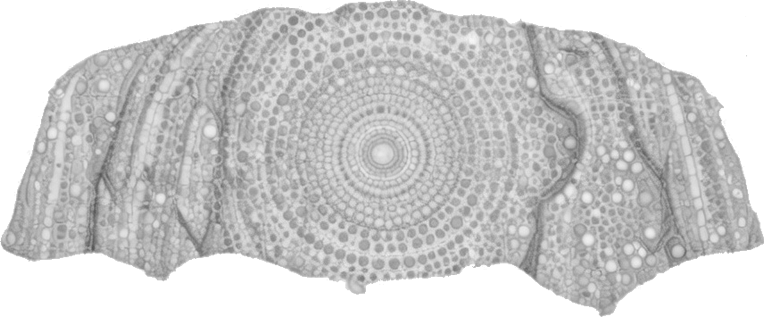
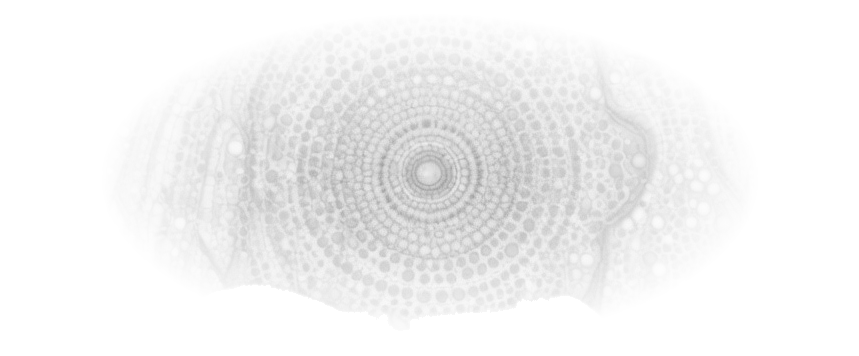
changes done

diff --git a/src/components/GlobalNetwork.jsx b/src/components/GlobalNetwork.jsx
@@ -5,33 +5,36 @@ import emultitech from '../assets/emultitech-logo.png';
 
 const GlobalNetwork = () => {
   return (
-    <section id="partners" className="relative bg-[#f9f9f9] py-24 overflow-hidden">
-      
-      {/* --- BACKGROUND IMAGE --- */}
-      {/* Centered absolutely, sitting behind the content */}
-      <div className="absolute top-1/2 left-1/2 transform -translate-x-1/2 -translate-y-1/2 w-full max-w-2xl z-0 pointer-events-none opacity-30">
-        <img src={globalBg} alt="Global Network" 
-          className="w-full max-w-2xl h-auto object-contain pb-10" 
-        />
-      </div>
+    <section id="partners" className="relative bg-[#f9f9f9] py-20 overflow-hidden">
+    
 
       <div className="max-w-7xl mx-auto px-6 md:px-12 relative z-10">
         <div className="flex flex-col lg:flex-row items-center gap-12 lg:gap-20">
           
           {/* --- LEFT SECTION: Title --- */}
-          <div className="lg:w-4/12 text-left">
+          <div className="lg:w-1/3 flex flex-col items-start relative">
+             <div className="absolute z-0 pointer-events-none
+                top-1/2 left-1/2 -translate-x-1/2 -translate-y-1/2 w-64
+                lg:top-[-2.5rem] lg:left-[-2.5rem] lg:translate-x-0 lg:translate-y-0 lg:w-[120%]
+              ">
+        <img src={globalBg} alt="Global Network" 
+          className="w-64 md:w-80 lg:w-full max-w-sm object-contain opacity-60" 
+        />
+      </div>
+        <div className="mb-8 z-10 text-center lg:text-left w-full">
             <h2 className="text-4xl md:text-4xl font-serif text-[#d4af37] mb-2 leading-none">Our</h2>
                 <h2 className="text-4xl md:text-4xl font-serif text-black-700 tracking-tight">Global Network</h2>
                 <div className="w-20 h-1.5 bg-[#d4af37] mt-6 rounded-full opacity-80 mx-auto lg:mx-0"></div>
+                </div>
           </div>
 
           {/* --- RIGHT SECTION: Description & Logos --- */}
-          <div className="lg:w-8/12 ">
+          <div className="lg:w-8/12 bg-[#f9f9f9] rounded-[2rem] p-8 md:p-16 shadow-sm border border-[#e2e2e2] ">
             
             {/* Description Text */}
-            <p className="text-black-600 text-lg mb-10 leading-relaxed max-w-2xl">
+            <p className="text-black-600 font-bold text-center mb-10 text-lg leading-relaxed max-w-2xl">
               Melbote leverages the strength and innovation of our pan-APAC technology leaders to deliver unparalleled solutions.
-            </p>
+            </p> 
 
             {/* Logos Row */}
             <div className="flex flex-col sm:flex-row items-center justify-start gap-8 sm:gap-12">
@@ -51,7 +54,7 @@ const GlobalNetwork = () => {
               </a>
 
               {/* Vertical Divider (Visible on Desktop) */}
-              <div className="hidden sm:block w-px h-12 bg-black-300"></div>
+              <div className="hidden sm:block w-[1px] h-12 bg-black-900"></div>
 
               {/* Logo 2: MultiTech */}
               <a 

diff --git a/src/components/About.jsx b/src/components/About.jsx
@@ -12,6 +12,17 @@ const About = () => {
             
             {/* --- LEFT COLUMN: Title & Image --- */}
             <div className="lg:w-1/3 flex flex-col items-start relative">
+
+             <div className="absolute z-0 pointer-events-none
+                top-1/2 left-1/2 -translate-x-1/2 -translate-y-1/2 w-64
+                lg:top-[-2.5rem] lg:left-[-2.5rem] lg:translate-x-0 lg:translate-y-0 lg:w-[120%]
+              ">
+                <img 
+                  src={aboutBg} 
+                  alt="Australian Kangaroo Art" 
+                  className="w-64 md:w-80 lg:w-full max-w-sm object-contain opacity-60" 
+                />
+              </div>
               {/* Title Section */}
               <div className="mb-8 z-10 text-center lg:text-left w-full">
                <h2 className="text-4xl md:text-4xl font-serif text-[#d4af37] mb-2 leading-none">About</h2>
@@ -19,21 +30,12 @@ const About = () => {
                 <div className="w-20 h-1.5 bg-[#d4af37] mt-6 rounded-full opacity-80 mx-auto lg:mx-0"></div>
               </div>
 
-              {/* Kangaroo Image 
-                  - Mobile: Smaller, centered
-                  - Desktop: Aligned left, sitting below title
-              */}
-              <div className="w-full flex justify-center lg:justify-start">
-                <img 
-                  src={aboutBg} 
-                  alt="Australian Kangaroo Art" 
-                  className="w-64 md:w-80 lg:w-full max-w-sm object-contain opacity-60" 
-                />
-              </div>
+            
+              
             </div>
 
             {/* --- RIGHT COLUMN: Text Content --- */}
-            <div className="lg:w-2/3 flex flex-col justify-center space-y-6 text-gray-600 leading-relaxed text-[15px] md:text-base font-light">
+            <div className="lg:w-2/3 flex flex-col justify-center space-y-6 text-black-600 leading-relaxed text-[15px] md:text-base font-light">
               <p>
                 Melbote is an IT professional services consulting company operating as the 
                 Australian subsidiary of a prominent pan-APAC technology leader. We are proud 

diff --git a/src/components/Footer.jsx b/src/components/Footer.jsx
@@ -1,16 +1,15 @@
 import React from 'react';
 import { MapPin, Phone, Mail } from 'lucide-react';
 import logo from '../assets/logo.png';
+import footerBg from '../assets/footer-bg.png';
 
 const Footer = () => {
   return (
     <footer id="contact" className="bg-[#f9f9f9] pt-20 pb-4 border-t border-[#e2e2e2] relative overflow-hidden">
       
       {/* Background Pattern (Simulating the map texture) */}
-      <div className="absolute inset-0 pointer-events-none flex items-end justify-center opacity-[0.03]">
-        <div className="w-full h-full bg-[radial-gradient(circle,_#000_1px,_transparent_1px)] bg-[length:20px_20px]"></div>
-      </div>
-
+      
+    
       <div className="max-w-7xl mx-auto px-6 relative z-10">
         <div className="grid grid-cols-1 md:grid-cols-2 lg:grid-cols-4 gap-12 mb-16">
           
@@ -43,7 +42,15 @@ const Footer = () => {
 
           {/* 3. Contact Us */}
           <div>
-            <h5 className="font-bold text-gray-900 mb-6">Contact Us</h5>
+            <div className="absolute inset-x-0 top-0 flex justify-center z-0 pointer-events-none">
+        <img 
+          src={footerBg} 
+          alt="Footer" 
+          className="w-full max-w-2xl h-auto object-contain opacity-100" // translate-y moves it down slightly for that 'watermark' look
+        />
+      </div>
+           <div className="relative z-10">
+             <h5 className="font-bold text-gray-900 mb-6">Contact Us</h5>
             <ul className="space-y-4 text-sm text-gray-600">
               <li className="flex items-start gap-3">
                 <MapPin size={18} className="text-[#d4af37] mt-1 shrink-0" />
@@ -60,6 +67,7 @@ const Footer = () => {
                 <span>info@melbote.com</span>
               </li>
             </ul>
+           </div>
           </div>
 
           {/* 4. Inquiries */}

diff --git a/src/components/Services.jsx b/src/components/Services.jsx
@@ -60,10 +60,7 @@ const Services = () => {
         <div className="lg:w-1/3 relative">
             <div className="sticky top-32">
               
-              {/* RESPONSIVE IMAGE LAYER 
-                 - Mobile: Centered behind text, fixed width (w-64)
-                 - Desktop (lg): Larger (w-[120%]), offset to the left (-left-10)
-              */}
+         
               <div className="absolute z-0 opacity-30 pointer-events-none
                 top-1/2 left-1/2 -translate-x-1/2 -translate-y-1/2 w-64
                 lg:top-[-2.5rem] lg:left-[-2.5rem] lg:translate-x-0 lg:translate-y-0 lg:w-[120%]
